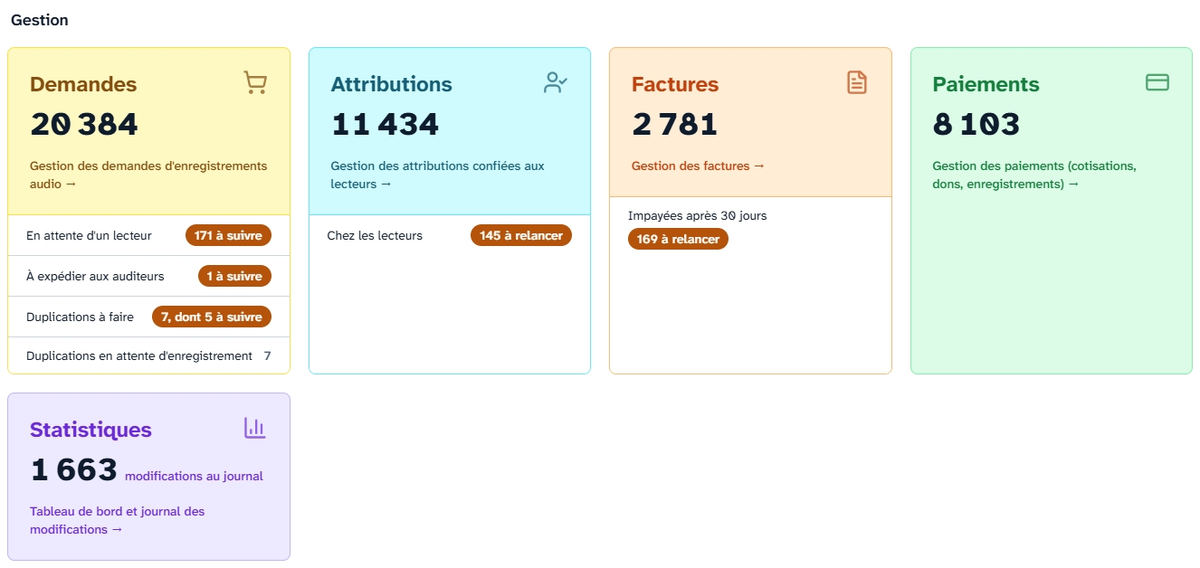
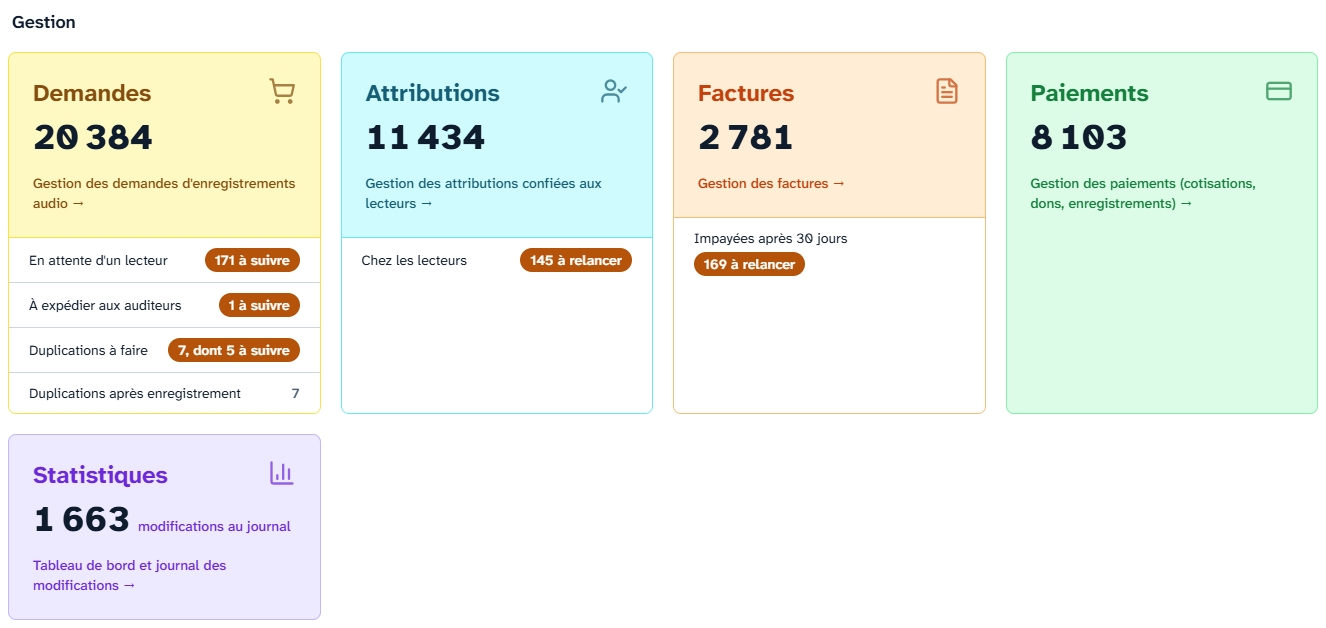
Duplications : toujours « À faire », jamais « en attente »
Une duplication dont le livre est encore en cours d'enregistrement gardait,
dans la liste des demandes, un badge ambre « En attente d'enregistrement » à
la place de son statut. Elle affiche désormais « À faire » comme les autres,
avec sous le badge la mention « Après l'enregistrement en cours » (lecteur et
date d'envoi au survol et pour les lecteurs d'écran).

Même vocabulaire partout : filtre et pastille « Duplication après
enregistrement », ligne du tableau de bord « Duplications après
enregistrement », note du formulaire « À faire après l'enregistrement en
cours ». Mode d'emploi (page principale, demandes) et capture du tableau de
bord mis à jour.

diff --git a/app/admin/orders/orders-table.tsx b/app/admin/orders/orders-table.tsx
@@ -268,8 +268,8 @@ export default function OrdersTable({
         return parisDate(dateString);
     };
 
-    // Tooltip behind the « En attente d'enregistrement » badge — names the lecteur
-    // and the date d'envoi when known, so the admin can see what's holding it up.
+    // Tooltip behind the « Après l'enregistrement en cours » line — names the
+    // lecteur and the date d'envoi when known, so the admin can see what it follows.
     const blockedRecordingLabel = (recording: SerializedBlockingRecording) => {
         const details = [
             recording.readerName ? `lecteur ${recording.readerName}` : null,
@@ -277,8 +277,8 @@ export default function OrdersTable({
         ].filter(Boolean);
 
         return details.length
-            ? `Duplication en attente : un enregistrement de cet ouvrage est en cours (${details.join(', ')}).`
-            : "Duplication en attente : un enregistrement de cet ouvrage est en cours.";
+            ? `Duplication à faire au retour de l'enregistrement de cet ouvrage, en cours (${details.join(', ')}).`
+            : "Duplication à faire au retour de l'enregistrement de cet ouvrage, en cours.";
     };
 
     return (
@@ -425,7 +425,7 @@ export default function OrdersTable({
                                     dashboard's « Duplications à faire » line opens. */}
                                 <SelectItem value="ready" className="text-foreground">Duplication réalisable</SelectItem>
                                 {/* Duplications held up by an enregistrement still in flight. */}
-                                <SelectItem value="blocked" className="text-foreground">Duplication en attente</SelectItem>
+                                <SelectItem value="blocked" className="text-foreground">Duplication après enregistrement</SelectItem>
                                 <SelectItem value="false" className="text-foreground">Enregistrement</SelectItem>
                             </SelectContent>
                         </Select>
@@ -624,23 +624,26 @@ export default function OrdersTable({
                                                         {formatDate(order.requestReceivedDate)}
                                                     </TableCell>
                                                     <TableCell>
-                                                        {/* A duplication waiting on an in-flight enregistrement is
-                                                            « À faire » in the DB but can't actually be started yet.
-                                                            Derived, never stored — see lib/orders/duplicationBlocked.ts. */}
-                                                        {blockedBy ? (
-                                                            <span
+                                                        <span
+                                                            title={order.status.name}
+                                                            className={cn('inline-flex items-center whitespace-nowrap rounded-full px-2 py-1 text-xs font-medium', statusStyle.badge)}
+                                                        >
+                                                            {statusStyle.short}
+                                                        </span>
+                                                        {/* A duplication waiting on an in-flight enregistrement
+                                                            stays « À faire » — never « en attente », which on this
+                                                            list reads as a recording status — and says, under its
+                                                            badge, what it follows. Derived, never stored — see
+                                                            lib/orders/duplicationBlocked.ts. Its délai is null
+                                                            meanwhile, so the two lines never stack. */}
+                                                        {blockedBy && (
+                                                            <div
                                                                 title={blockedRecordingLabel(blockedBy)}
-                                                                className="inline-flex items-center whitespace-nowrap rounded-full border border-amber-300 bg-amber-100 px-2 py-1 text-xs font-medium text-amber-900 dark:border-amber-700 dark:bg-amber-900/40 dark:text-amber-200"
+                                                                className="mt-1 whitespace-nowrap text-xs font-medium text-muted-foreground"
                                                             >
-                                                                En attente d&apos;enregistrement
-                                                            </span>
-                                                        ) : (
-                                                            <span
-                                                                title={order.status.name}
-                                                                className={cn('inline-flex items-center whitespace-nowrap rounded-full px-2 py-1 text-xs font-medium', statusStyle.badge)}
-                                                            >
-                                                                {statusStyle.short}
-                                                            </span>
+                                                                <span aria-hidden="true">Après l&apos;enregistrement en cours</span>
+                                                                <span className="sr-only">{blockedRecordingLabel(blockedBy)}</span>
+                                                            </div>
                                                         )}
                                                         {/* Facturée avant sa clôture : jusqu'à ce qu'on la clôture. */}
                                                         <div className="mt-1 empty:hidden">

diff --git a/components/ui/admin/OrderFormBackendBase.tsx b/components/ui/admin/OrderFormBackendBase.tsx
@@ -880,7 +880,7 @@ export function OrderFormBackendBase({
                                     </div>
                                     {blockingRecording && (
                                         <p className="mt-2 ml-9 text-sm text-amber-700 dark:text-amber-400">
-                                            En attente d&apos;enregistrement : cet ouvrage n&apos;a pas encore
+                                            À faire après l&apos;enregistrement en cours : cet ouvrage n&apos;a pas encore
                                             de fichier audio et un enregistrement est en cours
                                             {blockingRecording.readerName ? ` (lecteur ${blockingRecording.readerName}` : ''}
                                             {blockingRecording.readerName && blockingRecording.sentToReaderDate

diff --git a/lib/orders/delais.ts b/lib/orders/delais.ts
@@ -334,7 +334,7 @@ export function retardWhere(
  * The two derived values of the demandes « Type » filter, as ids read off the
  * délais like `retardWhere`:
  *  - `ready`   — « Duplication réalisable »: open, and nothing to wait for
- *  - `blocked` — « Duplication en attente »: its book is still being recorded
+ *  - `blocked` — « Duplication après enregistrement »: its book is still being recorded
  * The dashboard's « Duplications à faire » line counts the same map, so its
  * number is the number of rows it opens. `blocked` used to be a Prisma clause
  * of its own; it now shares the one derivation instead of a second copy.

diff --git a/lib/orders/orderList.ts b/lib/orders/orderList.ts
@@ -87,7 +87,7 @@ export function orderListWhere(
         if (f.isDuplication === 'true') where.isDuplication = true;
         else if (f.isDuplication === 'false') where.isDuplication = false;
         else {
-            // « Réalisable » / « En attente » — open duplications that can be
+            // « Réalisable » / « Après enregistrement » — open duplications that can be
             // done now, or that wait on a recording still under way. Read off
             // the délais, like « Retard », so the dashboard count matches.
             const dupClause = duplicationStateWhere(f.isDuplication, ctx.delais);

diff --git a/lib/orders/statusDisplay.ts b/lib/orders/statusDisplay.ts
@@ -8,9 +8,8 @@ import { STATUS } from '@/lib/statusSync';
  * prisma/seed.ts STATUSES ; constantes : lib/statusSync.ts).
  *
  * Les couleurs suivent le circuit, du neutre au vert, et évitent à dessein le
- * rouge et l'ambre : sur cette liste, ils disent déjà « en retard », « à
- * surveiller » et « duplication en attente ». Deux statuts voisins n'ont jamais
- * deux teintes proches.
+ * rouge et l'ambre : sur cette liste, ils disent déjà « en retard » et « à
+ * surveiller ». Deux statuts voisins n'ont jamais deux teintes proches.
  */
 type StatusStyle = { short: string; badge: string };
 

diff --git a/types/models/order.model.ts b/types/models/order.model.ts
@@ -307,7 +307,7 @@ export type LinkedAssignment = Prisma.AssignmentGetPayload<{ select: typeof link
 
 export const ordersTableInclude = {
     aveugle: { select: { email: true, firstName: true, lastName: true } },
-    // audio_filepath drives the « en attente d'enregistrement » badge: a duplication
+    // audio_filepath drives the « Après l'enregistrement en cours » line: a duplication
     // whose book already has audio is never blocked (lib/orders/duplicationBlocked.ts).
     catalogue: { select: { title: true, author: true, audio_filepath: true } },
     status: { select: { name: true } },

diff --git a/lib/orders/duplicationBlocked.ts b/lib/orders/duplicationBlocked.ts
@@ -20,7 +20,7 @@ const RECORDING_UNDER_WAY = [STATUS.ATTENTE, STATUS.EN_COURS];
 const DEMANDE_CLOSED: number[] = [STATUS.TERMINE, STATUS.SOLDE];
 
 /*
- * The « Duplication réalisable » / « Duplication en attente » filters and the
+ * The « Duplication réalisable » / « Duplication après enregistrement » filters and the
  * dashboard count read the same derivation off the délais
  * (lib/orders/delais.ts, `duplicationStateWhere`) — no Prisma copy of it here.
  */

diff --git a/app/admin/orders/page.tsx b/app/admin/orders/page.tsx
@@ -50,7 +50,7 @@ async function rescueOrders(
         true: 'Duplication',
         false: 'Enregistrement',
         ready: 'Duplication réalisable',
-        blocked: 'Duplication en attente',
+        blocked: 'Duplication après enregistrement',
     };
     if (active.isDuplication && types[active.isDuplication]) {
         filters.push({ key: 'isDuplication', label: `Type : ${types[active.isDuplication]}` });

diff --git a/app/admin/page.tsx b/app/admin/page.tsx
@@ -72,7 +72,7 @@ function duplicationRows(tally: DelaiTally): DashboardStatusRow[] {
     ];
     if (tally.bloquees > 0) {
         rows.push({
-            label: "Duplications en attente d'enregistrement",
+            label: 'Duplications après enregistrement',
             href: '/admin/orders?isDuplication=blocked',
             tone: 'neutral',
             value: String(tally.bloquees),

diff --git a/content/aide/06-demandes.md b/content/aide/06-demandes.md
@@ -44,7 +44,7 @@ Vous pouvez filtrer votre recherche selon les critères suivants :
 
 3. Le statut de la facturation de la demande
 
-4. Le type de la demande : enregistrement ou duplication. Deux choix de plus trient les duplications ouvertes : « Duplication réalisable » (celles qui peuvent être faites dès maintenant — c'est la liste qu'ouvre la ligne « Duplications à faire » de la page principale) et « Duplication en attente » (celles dont le livre est encore en cours d'enregistrement)
+4. Le type de la demande : enregistrement ou duplication. Deux choix de plus trient les duplications ouvertes : « Duplication réalisable » (celles qui peuvent être faites dès maintenant — c'est la liste qu'ouvre la ligne « Duplications à faire » de la page principale) et « Duplication après enregistrement » (celles dont le livre est encore en cours d'enregistrement : elles restent « À faire », avec sous leur statut la mention « Après l'enregistrement en cours », et le nom du lecteur au survol)
 
 5. Le filtre « Retard » : les demandes dont la date prévue est passée (« En retard »), à surveiller ou à jour — voir [Délais et suivi](/admin/aide/demandes#delais-et-suivi) juste en dessous
 
@@ -76,7 +76,7 @@ Ces délais viennent de nos propres chiffres : un lecteur est trouvé en moins d
 Quelques précisions :
 
 - **Une réattribution fait repartir le délai** : le nouveau lecteur a lui aussi ses trois mois.
-- **Une duplication « en attente d'enregistrement » n'est jamais à suivre** : elle attend un livre qu'un lecteur est encore en train d'enregistrer, et c'est cet enregistrement qui porte le délai. Le sien commence le jour où l'enregistrement revient.
+- **Une duplication à faire après un enregistrement n'est jamais à suivre** : elle attend un livre qu'un lecteur est encore en train d'enregistrer, et c'est cet enregistrement qui porte le délai. Le sien commence le jour où l'enregistrement revient.
 - **Une demande clôturée n'a plus de délai.**
 
 Dans la liste, une demande dont la date prévue est passée apparaît sur fond orange clair, avec sous son statut la mention « À suivre » (« À relancer » quand le livre est chez le lecteur) et cette date : « À suivre · prévu le 1er oct. ». Une demande à surveiller porte la mention « À surveiller » en gris, avec la date prévue à venir. En passant la souris sur la mention, vous lisez l'étape.

diff --git a/content/aide/02-page-principale.md b/content/aide/02-page-principale.md
@@ -61,7 +61,7 @@ Les cartes « Demandes », « Attributions » et « Factures » comportent, sous
 
 Chaque ligne indique combien d'éléments ont passé leur date prévue — **à suivre** (pour les livres chez les lecteurs, « à relancer »), en orange — ou sont **à surveiller**, en bleu. Quand tout va bien, elle affiche « À jour » en vert.
 
-Les duplications font exception, parce qu'elles se font tout de suite : la ligne « Duplications à faire » compte **toutes** celles qui peuvent être faites dès maintenant, que leur date prévue soit passée ou non — en bleu, avec le détail quand certaines sont à surveiller (« 5, dont 2 à surveiller »), en orange quand certaines sont à suivre (« 5, dont 2 à suivre »). Les duplications qui attendent encore un enregistrement chez un lecteur n'y sont pas comptées : elles ont leur propre ligne, en gris, « Duplications en attente d'enregistrement », qui n'apparaît que s'il y en a.
+Les duplications font exception, parce qu'elles se font tout de suite : la ligne « Duplications à faire » compte **toutes** celles qui peuvent être faites dès maintenant, que leur date prévue soit passée ou non — en bleu, avec le détail quand certaines sont à surveiller (« 5, dont 2 à surveiller »), en orange quand certaines sont à suivre (« 5, dont 2 à suivre »). Les duplications qui attendent encore un enregistrement chez un lecteur n'y sont pas comptées : elles ont leur propre ligne, en gris, « Duplications après enregistrement », qui n'apparaît que s'il y en a.
 
 Cliquez sur une ligne pour ouvrir la liste correspondante, déjà filtrée sur ces éléments-là ; cliquez sur la partie colorée de la carte pour ouvrir la page entière, comme avant. Les délais qui fixent la date prévue de chaque étape sont expliqués dans [Délais et suivi](/admin/aide/demandes#delais-et-suivi).
 
